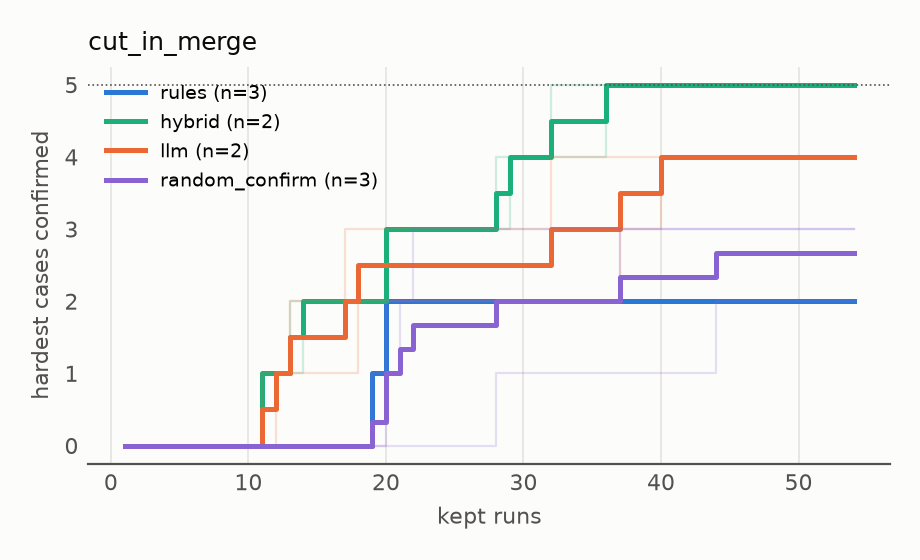
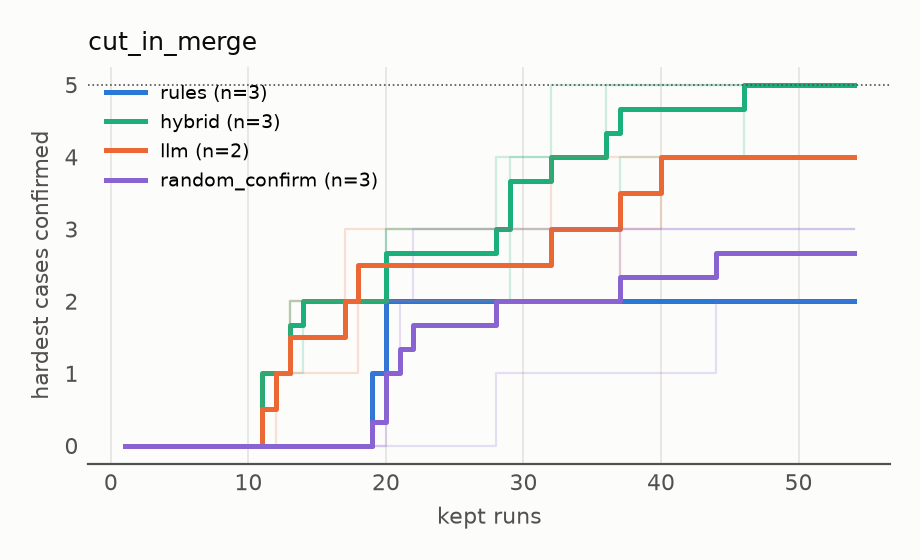
Cut-in hybrid replicate 4: 5 of 5 at 46 runs

Changed region(s): [[0.3957, 0.1214, 0.8217, 0.4554], [0.3043, 0.5768, 0.3348, 0.6071], [0.2739, 0.2125, 0.3043, 0.2429]]

diff --git a/METHODS.md b/METHODS.md
@@ -10,7 +10,7 @@ k most challenging scenes (1 = a crash), whether or not it was confirmed.
 | study | method | replicates | kept runs (each) | reached goal | runs to goal (each) | median | confirmed (each) | hardest (each) | failures (each) | model s (each) |
 |---|---|---|---|---|---|---|---|---|---|---|
 | cut_in_merge | rules | 3 | 54, 54, 54 | 0 | 54, 54, 54 | 54 | 2, 2, 2 of 5 | 0.948, 0.925, 0.936 | 9, 9, 10 | 0.0, 0.0, 0.0 |
-| cut_in_merge | hybrid | 2 | 36, 36 | 2 | 32, 36 | 34.0 | 5, 5 of 5 | 1.0, 1.0 | 17, 20 | 51.7, 50.0 |
+| cut_in_merge | hybrid | 3 | 36, 36, 54 | 3 | 32, 36, 46 | 36 | 5, 5, 5 of 5 | 1.0, 1.0, 1.0 | 17, 20, 27 | 51.7, 50.0, 86.7 |
 | cut_in_merge | llm | 2 | 54, 53 | 0 | 54, 54 | 54.0 | 4, 4 of 5 | 0.983, 0.979 | 18, 18 | 101.3, 108.2 |
 | cut_in_merge | random_confirm | 3 | 54, 54, 54 | 0 | 54, 54, 54 | 54 | 3, 3, 2 of 5 | 0.952, 0.949, 0.951 | 18, 18, 9 | 0.0, 0.0, 0.0 |
 | intersection | rules | 1 | 49 | 0 | 49 | 49 | 0 of 5 | 0.435 | 0 | 0.0 |

diff --git a/BACK.md b/BACK.md
@@ -53,7 +53,7 @@ by day is in `LOG.md`. Live results: `research/simgate serve` (Results tab),
    vehicle (3 knobs, failures at the extremes) llm 5 of 5 by runs 23 and
    30 (two clean replicates), random + confirmation 5 by 43, then 4 and 3 of 5,
    hybrid 2, 3 and 3 of 5, rules 0, 0 and 0; cut-in (clean replicates only) hybrid 5 of 5 by
-   runs 32 and 36, llm 4 and 4 of 5, random + confirmation 3, 3 and 2 of 5, rules 2, 2 and 2 of 5 in 54. Plain random
+   runs 32, 36 and 46, llm 4 and 4 of 5, random + confirmation 3, 3 and 2 of 5, rules 2, 2 and 2 of 5 in 54. Plain random
    never confirms anything. Where the space is small every method does
    about as well; where it is large, the Claude methods find the hardest
    cases first. More replicates are running.

diff --git a/FACTS.md b/FACTS.md
@@ -568,8 +568,8 @@ is queued (to replace the left-out one).
 ### Cut-in, replicates so far (10 Oct)
 
 Clean replicates only (replicate 1 of rules, hybrid and llm stopped on the
-broad count, left out; fourth replicates queued): hybrid 5 of 5 at 32
-and at 36 runs; llm 4, 4 of 5 in 54; random + confirmation 3, 3, 2 of 5 in 54; rules 2, 2, 2
+broad count, left out; fourth replicates queued): hybrid 5 of 5 at 32,
+36 and 46 runs; llm 4, 4 of 5 in 54; random + confirmation 3, 3, 2 of 5 in 54; rules 2, 2, 2
 of 5 in 54, the same two each time (1.25x speed, no time shift, scenes
 023b7fcc and 09a95ffa; setting ids differ between arms), as replay
 determinism predicts. Replicates 3-4 of hybrid and llm running or queued.
